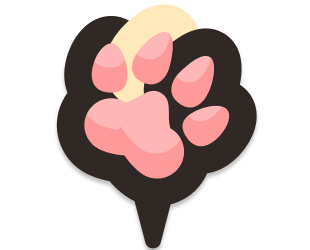
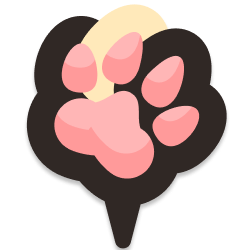
🌈 Design: 마커 이미지와 로고 사이즈 변경 (정사각형으로), 일부 컴포넌트 마크업 변경 (이슈 없음)

diff --git a/src/assets/stylesheets/style.css b/src/assets/stylesheets/style.css
@@ -953,11 +953,13 @@ a:has(#logo-primary) {
   color: rgb(var(--clr-text)/0.5);
   font-size: var(--fnt-sm);
   font-weight: 700;
+  transition: 0.15s;
 }
 .button-service-control:hover {
-  border-color: rgb(var(--clr-alert)/0.25);
-  background-color: rgb(var(--clr-alert)/0.1);
-  color: rgb(var(--clr-alert)/0.5);
+  border-color: rgb(var(--clr-point)/0.5);
+  background-color: rgb(var(--clr-info)/0.75);
+  color: rgb(var(--clr-text-on-tint)/0.5);
+  font-weight: 900;
 }
 .button-service-control.drop-progress {
   background-color: rgb(var(--clr-black));
@@ -1913,6 +1915,37 @@ a:has(#logo-primary) {
 }
 
 /* _rescueInfo.scss */
+.thread-place-container {
+  display: flex;
+  flex-direction: column;
+  align-items: flex-start;
+  flex-wrap: nowrap;
+  position: relative;
+  box-sizing: border-box;
+  width: min(100% - 1.6rem, 36rem);
+  height: min(100% - 3.2rem, 42rem);
+  margin: 0 auto;
+  gap: 0.5rem;
+}
+.thread-place-container .instruction,
+.thread-place-container .title-bar {
+  width: 100%;
+}
+.thread-place-container .thread-place {
+  width: 100%;
+}
+.thread-place-container .thread-place .section-title {
+  position: relative;
+  color: rgb(var(--clr-text));
+  font-size: var(--fnt-sm);
+  font-weight: 700;
+  text-align: left;
+}
+.thread-place-container .thread-place > .dropdown-container {
+  isolation: isolate;
+  z-index: 2;
+}
+
 /* _buttons.scss */
 button {
   padding: 0;
@@ -5813,3 +5846,16 @@ input[type=checkbox]:is([data-checkbox-type=toggle]):focus + label .switch-rail 
 }
 
 /* _imageGallery.scss */
+.single-input-container .single-input {
+  color: rgb(var(--clr-text));
+  height: 1.6rem;
+  padding: 0.4rem;
+  border: 0.05rem solid rgba(47, 40, 36, 0.15);
+  border-radius: var(--rad-xs);
+}
+.single-input-container .single-input::-moz-placeholder {
+  color: rgb(var(--clr-gray));
+}
+.single-input-container .single-input::placeholder {
+  color: rgb(var(--clr-gray));
+}

diff --git a/src/pages/UserProfile.jsx b/src/pages/UserProfile.jsx
@@ -1,7 +1,10 @@
 import { useModalStore } from '../stores/modalStatus';
+
 import Remix from '../components/common/Remix';
 import UserProfileImage from '../components/common/UserProfileImage';
 import ModalSectionTitle from '../components/common/ModalSectionTitle';
+
+import dateFormat from '../utils/dateFormat';
 import tempDB from '../datas/temp-db.json';
 
 const UserProfile = () => {
@@ -34,7 +37,27 @@ const UserProfile = () => {
             <ModalSectionTitle sectionTitle="상세정보" />
 
             <div className="user-common-item-list">
-                <div>사용자 상세 정보</div>
+                <dl className="user-common-labeled-row">
+                    <dt>
+                        <span>가입일</span>
+                    </dt>
+
+                    <dd>
+                        <span>{dateFormat(currentUser.createdAt)}</span>
+                    </dd>
+                </dl>
+
+                <dl className="user-common-labeled-row">
+                    <dt>
+                        <span>기타 정보</span>
+                    </dt>
+
+                    <dd>
+                        <span>
+                            {'... (이후 사용자 설정 구현 후 추가 예정)'}
+                        </span>
+                    </dd>
+                </dl>
             </div>
         </>
     );

diff --git a/src/components/MallangMap.jsx b/src/components/MallangMap.jsx
@@ -20,10 +20,7 @@ import tempDB from '../datas/temp-db.json'; // 임시 가라 데이터
 const { kakao } = window;
 
 const MallangMap = () => {
-    const [currentLocation, setLocation] = useState({
-        lat: 37.48796528597396,
-        lng: 126.98758475187806,
-    });
+    const [currentLocation, setLocation] = useState(getLatestLocation);
     const [currentCategory, setCategory] = useState('all');
     const [isMarkerOpen, setMarkerStatus] = useState(false);
     const [isAreaInfoShowing, setPanel] = useState(false);
@@ -43,6 +40,7 @@ const MallangMap = () => {
         if (currentLocation.lat === 0 && currentLocation.lng === 0) {
             setLocation(getLatestLocation());
         }
+
         return currentLocation;
     };
 
@@ -127,6 +125,7 @@ const MallangMap = () => {
                     console.log('클릭 바운더리:', curBounds);
 
                     setLocation({ lat: curLat, lng: curLng });
+
                     if (isMarkerOpen) setMarkerStatus(false);
 
                     // 클릭한 좌표의 주소 정보 가져오기

diff --git a/src/assets/stylesheets/layouts/_commons.scss b/src/assets/stylesheets/layouts/_commons.scss
@@ -406,11 +406,13 @@ a:has(#logo-primary) {
     color: rgb(var(--clr-text) / 0.5);
     font-size: var(--fnt-sm);
     font-weight: 700;
+    transition: 0.15s;
 
     &:hover {
-        border-color: rgb(var(--clr-alert) / 0.25);
-        background-color: rgb(var(--clr-alert) / 0.1);
-        color: rgb(var(--clr-alert) / 0.5);
+        border-color: rgb(var(--clr-point) / 0.5);
+        background-color: rgb(var(--clr-info) / 0.75);
+        color: rgb(var(--clr-text-on-tint) / 0.5);
+        font-weight: 900;
     }
 
     &.drop-progress {

diff --git a/src/pages/ComponentMuseum.jsx b/src/pages/ComponentMuseum.jsx
@@ -39,7 +39,7 @@ const ComponentMuseum = () => {
         <aside className="inner-wrapper">
             <div style={tempListContainer}>
                 <h5>
-                    이곳은 공용 컴포넌트의 박물관... 원하는 것을 골라 쓰시오...
+                    컴포넌트↗ 박물관에↘ 당도한 것을→ 환영하오↘ 낯↘선↗이여↘
                 </h5>
 
                 <p>

diff --git a/src/utils/getLatestLocation.js b/src/utils/getLatestLocation.js
@@ -2,7 +2,7 @@ export default function getLatestLocation() {
     // localStorage에서 최종 좌표값이 있으면 좌표 객체를 반환한다.
     const isExist = localStorage.getItem('mallangMapLatestLocation');
 
-    if (isExist) {
+    if (!!isExist === true) {
         const [lastLat, lastLng] = isExist
             .replaceAll(/[()/ /]/gim, '')
             .split(',');
